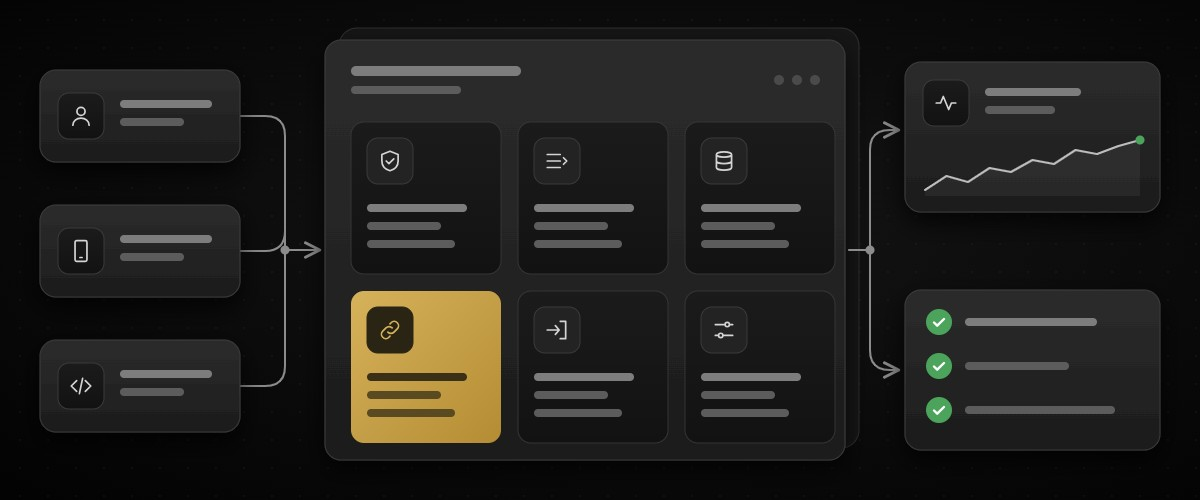
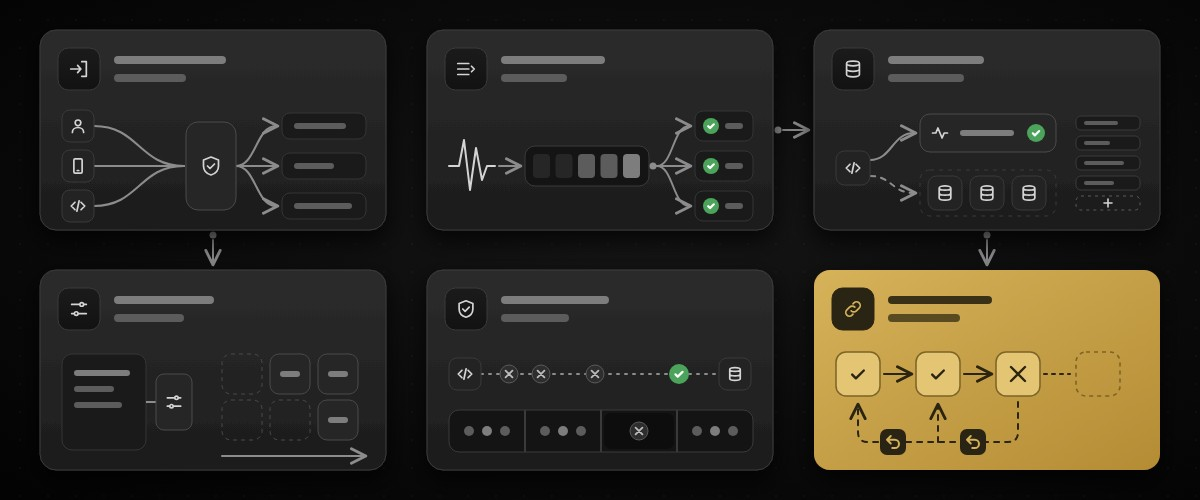
writing: redraw the cloud design patterns cover as six group cards
Each of the six pattern groups gets its own card with a small diagram of
what its patterns do; the connectors are the typical combinations from the
infographic. Also adds the article review handoff note.

diff --git a/docs/article-review-handoff-2026-11-20.md b/docs/article-review-handoff-2026-11-20.md
@@ -1,0 +1,181 @@
+# Article review handoff, 20 November 2026
+
+## Request and scope
+
+The user asked: “review this branch especially the context of the articles and suggest improvements on them”, then requested a handout for another session.
+
+The review is complete. Recommendations have been delivered, but **implementation has not been requested**. Use this document to continue discussion or implement changes if the user authorizes that in the next session. Do not treat a suggestion below as an already accepted edit.
+
+Repository: `C:\Users\LukaEngels\Learn\cv-2026`
+
+- Branch reviewed: `feature/writing-index-page`
+- HEAD reviewed: `b5859f7`
+- Comparison: `main...HEAD`
+- Working tree was clean before this handout was created.
+- Shell: PowerShell. Package manager: pnpm.
+- No article, implementation, or generated files were changed during this review.
+
+Read `CLAUDE.md` for repository conventions. The existing `docs/article-review-handout.md` and `docs/article-review-second-opinion.md` describe an earlier review. Their file counts, line numbers, and unresolved findings can be stale. This review covers the current five English articles, with targeted checks of German counterparts; it is not a complete translation audit.
+
+## Main assessment
+
+The collection has a coherent theme: making agent workflows inspectable and putting specific checks in code. Concrete examples of failures are its strongest material. The most important improvement is to make opening promises and conclusions as precise as the limitations already documented in the body.
+
+Distinguish among:
+
+- A check that validates structure or matches values.
+- Evidence that a specific demonstration worked.
+- A measured result on known evaluation cases.
+- A guarantee about factual correctness or production behaviour.
+
+## Priority corrections
+
+Line numbers below refer to the reviewed HEAD and will shift after edits. Apply corresponding corrections to German sources after checking their current wording.
+
+### 1. Listing agent: narrow the guarantee
+
+Source: `content/articles/listing-creation-agent.md:247`, with supporting context at lines 138–155 and 185–187.
+
+The conclusion says invented numbers and guessed room counts have “no way around” the checks. However, the body explains that a number passes if any reading matches a recorded value, zero and one are exempt, and a real number attached to the wrong thing passes. This establishes numerical consistency, not factual correctness.
+
+Suggested replacement:
+
+> The tools enforce required fields, selected source comparisons and numerical consistency. They reject many unsupported outputs, but do not establish that every claim in the exposé is true.
+
+Also distinguish a fact's recorded source from proof that the model extracted it correctly. A source label alone does not verify the extracted value.
+
+Preserve the bathtub example: the agent raised a concern in its closing message even though the accepted exposé still contained the disputed feature. It makes the boundary concrete.
+
+### 2. Listing agent: separate legal requirements from demo policy
+
+Source: `content/articles/listing-creation-agent.md:134`, also opening at line 15 and required fields at line 57.
+
+The article makes the advertising obligation sound unconditional and links it to six required certificate fields. The official section 87 text consulted conditions the advertising obligation on an energy certificate being available when the advertisement is published. It lists five categories for residential properties; certificate expiry is not among them.
+
+Suggested direction:
+
+- Describe the statutory condition accurately.
+- State separately that this demonstration requires six fields as application policy.
+- Identify the additional field and why the demo requires it.
+- Do not present this demo policy or fallback XML check as proof of legal compliance.
+
+Primary source: https://www.gesetze-im-internet.de/geg/__87.html
+
+Check the current official title and applicable version when editing. The fetched page used the title “Gebäudemodernisierungsgesetz”, while the article calls it GEG. The review did not investigate that naming/version discrepancy, so do not silently infer its history or effective dates.
+
+### 3. Saga: qualify broad architectural claims
+
+Source: `content/articles/saga-pattern.md:139`.
+
+The claim that any agent run with side effects “is a Saga” remains in the current source. Side effects alone do not establish coordinated local transactions and recovery.
+
+Suggested replacement:
+
+> An agent workflow with side effects across tools can benefit from Saga-style coordination when partial completion needs explicit recovery.
+
+Related sources:
+
+- `content/articles/cloud-design-patterns.md:126` and `:214`
+- `content/articles/saga-pattern.md:215`
+
+The overview still presents Saga and compensation as necessary when an operation spans shards. Qualify this according to the available transaction guarantees and business recovery requirements. DynamoDB is listed as a sharding example, but supports atomic multi-item transactions within documented limits.
+
+Primary sources:
+
+- https://learn.microsoft.com/en-us/azure/architecture/patterns/saga
+- https://docs.aws.amazon.com/amazondynamodb/latest/developerguide/transaction-apis.html
+
+Do not confuse DynamoDB's own transaction support with participation in an arbitrary cross-service two-phase commit.
+
+### 4. Cloud patterns: remove the exactly-once implication
+
+Source: `content/articles/cloud-design-patterns.md:79`.
+
+The competing-consumers definition says each message is processed by exactly one worker, then warns about duplicates. Make the definition consistent with that warning and the SQS example.
+
+Suggested replacement:
+
+> Workers compete for messages from a shared queue. Redelivery is possible, so processing must be idempotent.
+
+Primary source: https://docs.aws.amazon.com/AWSSimpleQueueService/latest/SQSDeveloperGuide/standard-queues-at-least-once-delivery.html
+
+## Editorial improvements by article
+
+These are recommendations, not confirmed defects or approved restructuring.
+
+### Listing creation agent
+
+Keep the workshop context, synthetic-data disclosure, recorded run, failed run and lack-of-evaluation caveat. Move a short version of the bathtub contradiction closer to the opening so readers immediately understand the limits of the checks. Link recorded evidence to a stable trace or repository revision, if available; do not invent a trace URL or results.
+
+### Property inquiry agent
+
+Source: `content/articles/proptech-inquiry-agent.md`.
+
+Bring “What the evaluation tells us” (line 335) and “What broke, and what changed” (line 360) forward. The 46/49 result and unsupported ticket-update promise are more distinctive than package layout and endpoint inventory. Move much of the installation and operational detail into the project README, retaining a short route to trying the project.
+
+Preserve the qualifications already present:
+
+- The judge and rubric changed, so improvement is not solely agent improvement.
+- Retrieval gained a regression question between runs.
+- These are known development cases, not an independent benchmark.
+- Costs are estimates using Claude API list prices, not verified Bedrock billing.
+- Passing numerical/citation guards does not establish semantic correctness.
+
+Do not rewrite a linked external README unless the next task authorizes work in that repository.
+
+### Executable playbooks
+
+Source: `content/articles/gates-not-prompts.md`.
+
+Use one running requirement through missing plan, blocked implementation, approval, and pinned snapshot. The current article explains the machinery in depth but gives less space to the experience of using it. Preserve the distinctions between procedural instructions, executable checks, editable files, and independently verified human approval.
+
+### Cloud design patterns
+
+Source: `content/articles/cloud-design-patterns.md`.
+
+Add one worked selection example showing which patterns solve a concrete problem and which add unnecessary complexity. This would better fulfil the opening promise to help readers choose patterns. Keep the grouped overview and links to the Saga deep dive.
+
+### Saga
+
+Source: `content/articles/saga-pattern.md`.
+
+Keep rental onboarding as the main example. Consider shortening the seven-domain catalogue and using the space to explain an ambiguous timeout: the remote action may have succeeded even when its response was lost. Explain how idempotency, reconciliation, and recovery relate rather than treating every timeout as proof that no action occurred.
+
+## Collection and index context
+
+Source: `scripts/build-articles.ts:156`, with German counterpart around line 176.
+
+The current index introduction, “On technology, work, and the ideas shaping both”, is too generic for these five articles.
+
+Suggested English introduction:
+
+> Practical notes on building inspectable AI workflows and designing cloud systems that recover from failure.
+
+Suggested reading paths:
+
+- Agent case studies and development workflows: inquiry agent, listing agent, executable playbooks.
+- Cloud architecture patterns: overview, then Saga.
+
+Consider an “Updated” date distinct from publication date for evolving articles. The inquiry article's September publication predates its October evaluation results. The generator currently sets JSON-LD `dateModified` to `meta.date` around line 398. A real update-date feature would need consistent source metadata, display, structured data, and sitemap handling; do not simply overwrite publication dates.
+
+## Verification performed and limits
+
+- Inspected branch history and diff against local `main`.
+- Read English article content, existing review documents, repository guidance, and relevant generator/navigation changes.
+- Made targeted German wording checks; did not certify full semantic translation parity.
+- Consulted the four official sources linked above for legal and architectural claims.
+- `pnpm typecheck` completed without reported errors.
+- `pnpm test` initially failed to start esbuild with sandbox `spawn EPERM`. It passed when rerun outside the sandbox: 3 test files, 39 tests.
+- Did not run article regeneration, a production build, build-output tests, or visual browser QA.
+- Did not reproduce external projects' model evaluations, inspect all external implementations, or verify historical model availability and billing.
+- No implementation bug was established in the writing-index changes by this review. This is not a claim of exhaustive code coverage.
+
+## If implementation is authorized next
+
+1. Recheck branch and working-tree state; preserve unrelated changes.
+2. Resolve the four priority content corrections in English and German.
+3. Agree on any larger restructuring through the user's new instructions; do not assume every optional suggestion must be implemented.
+4. Edit `content/articles/` sources. Generated HTML and dev.to copies are not source files.
+5. Run `pnpm articles` after source changes and inspect the generated diff.
+6. Run checks appropriate to any generator or metadata changes. For a production verification, use `pnpm build` followed by `pnpm test:build`, along with typechecking and relevant unit tests.
+7. Report the final changes and any unresolved factual verification without presenting demonstrations as production guarantees.
